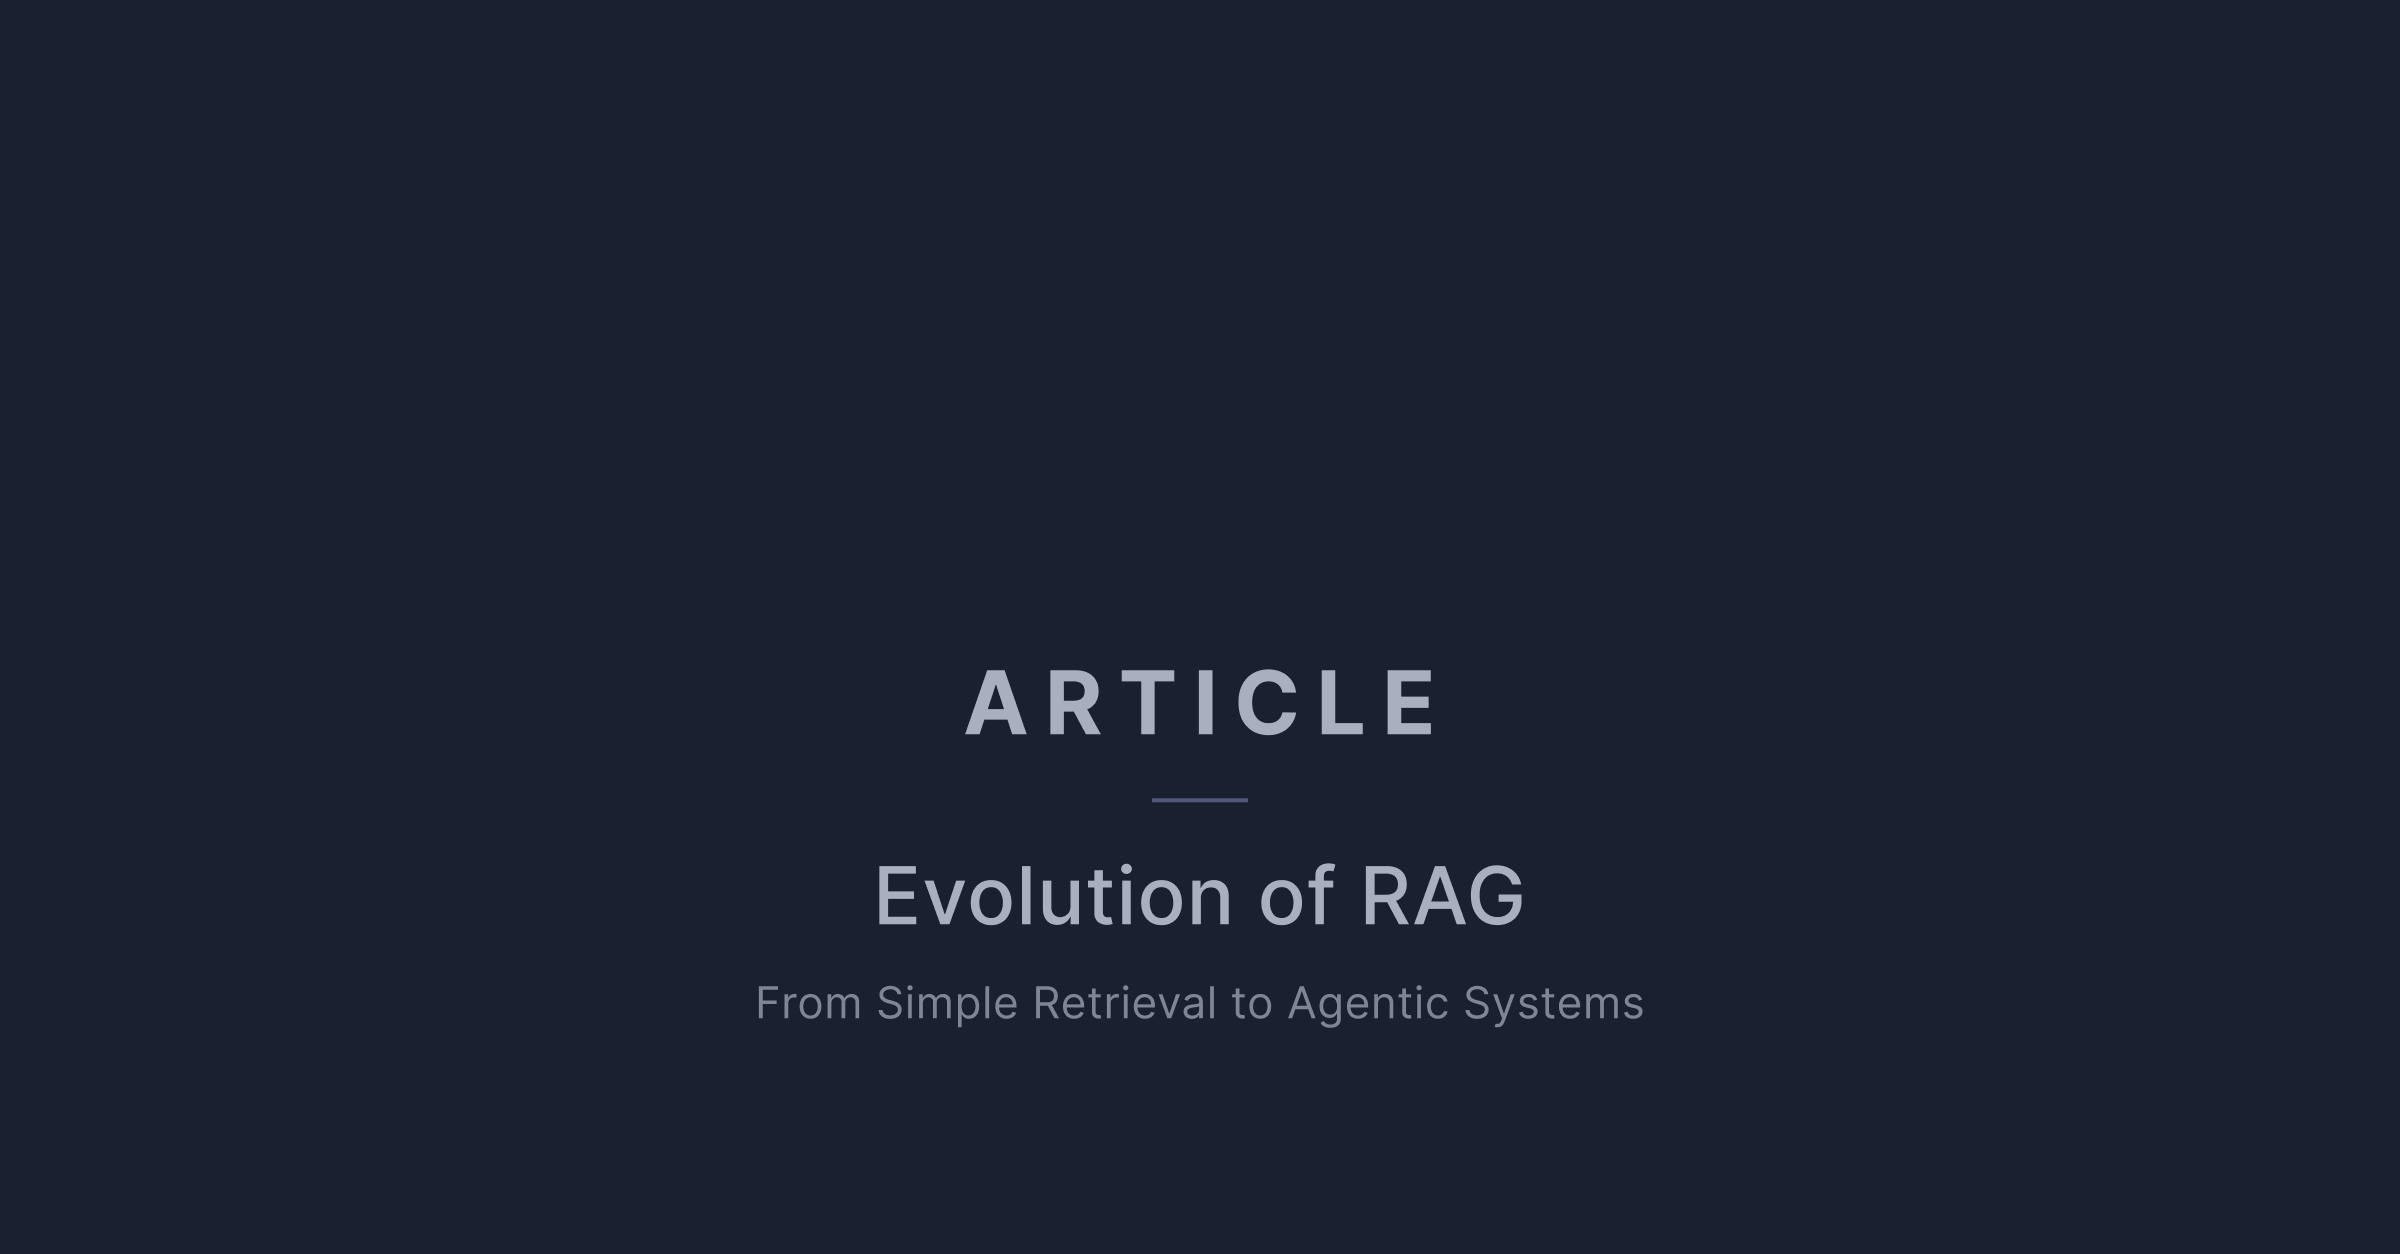
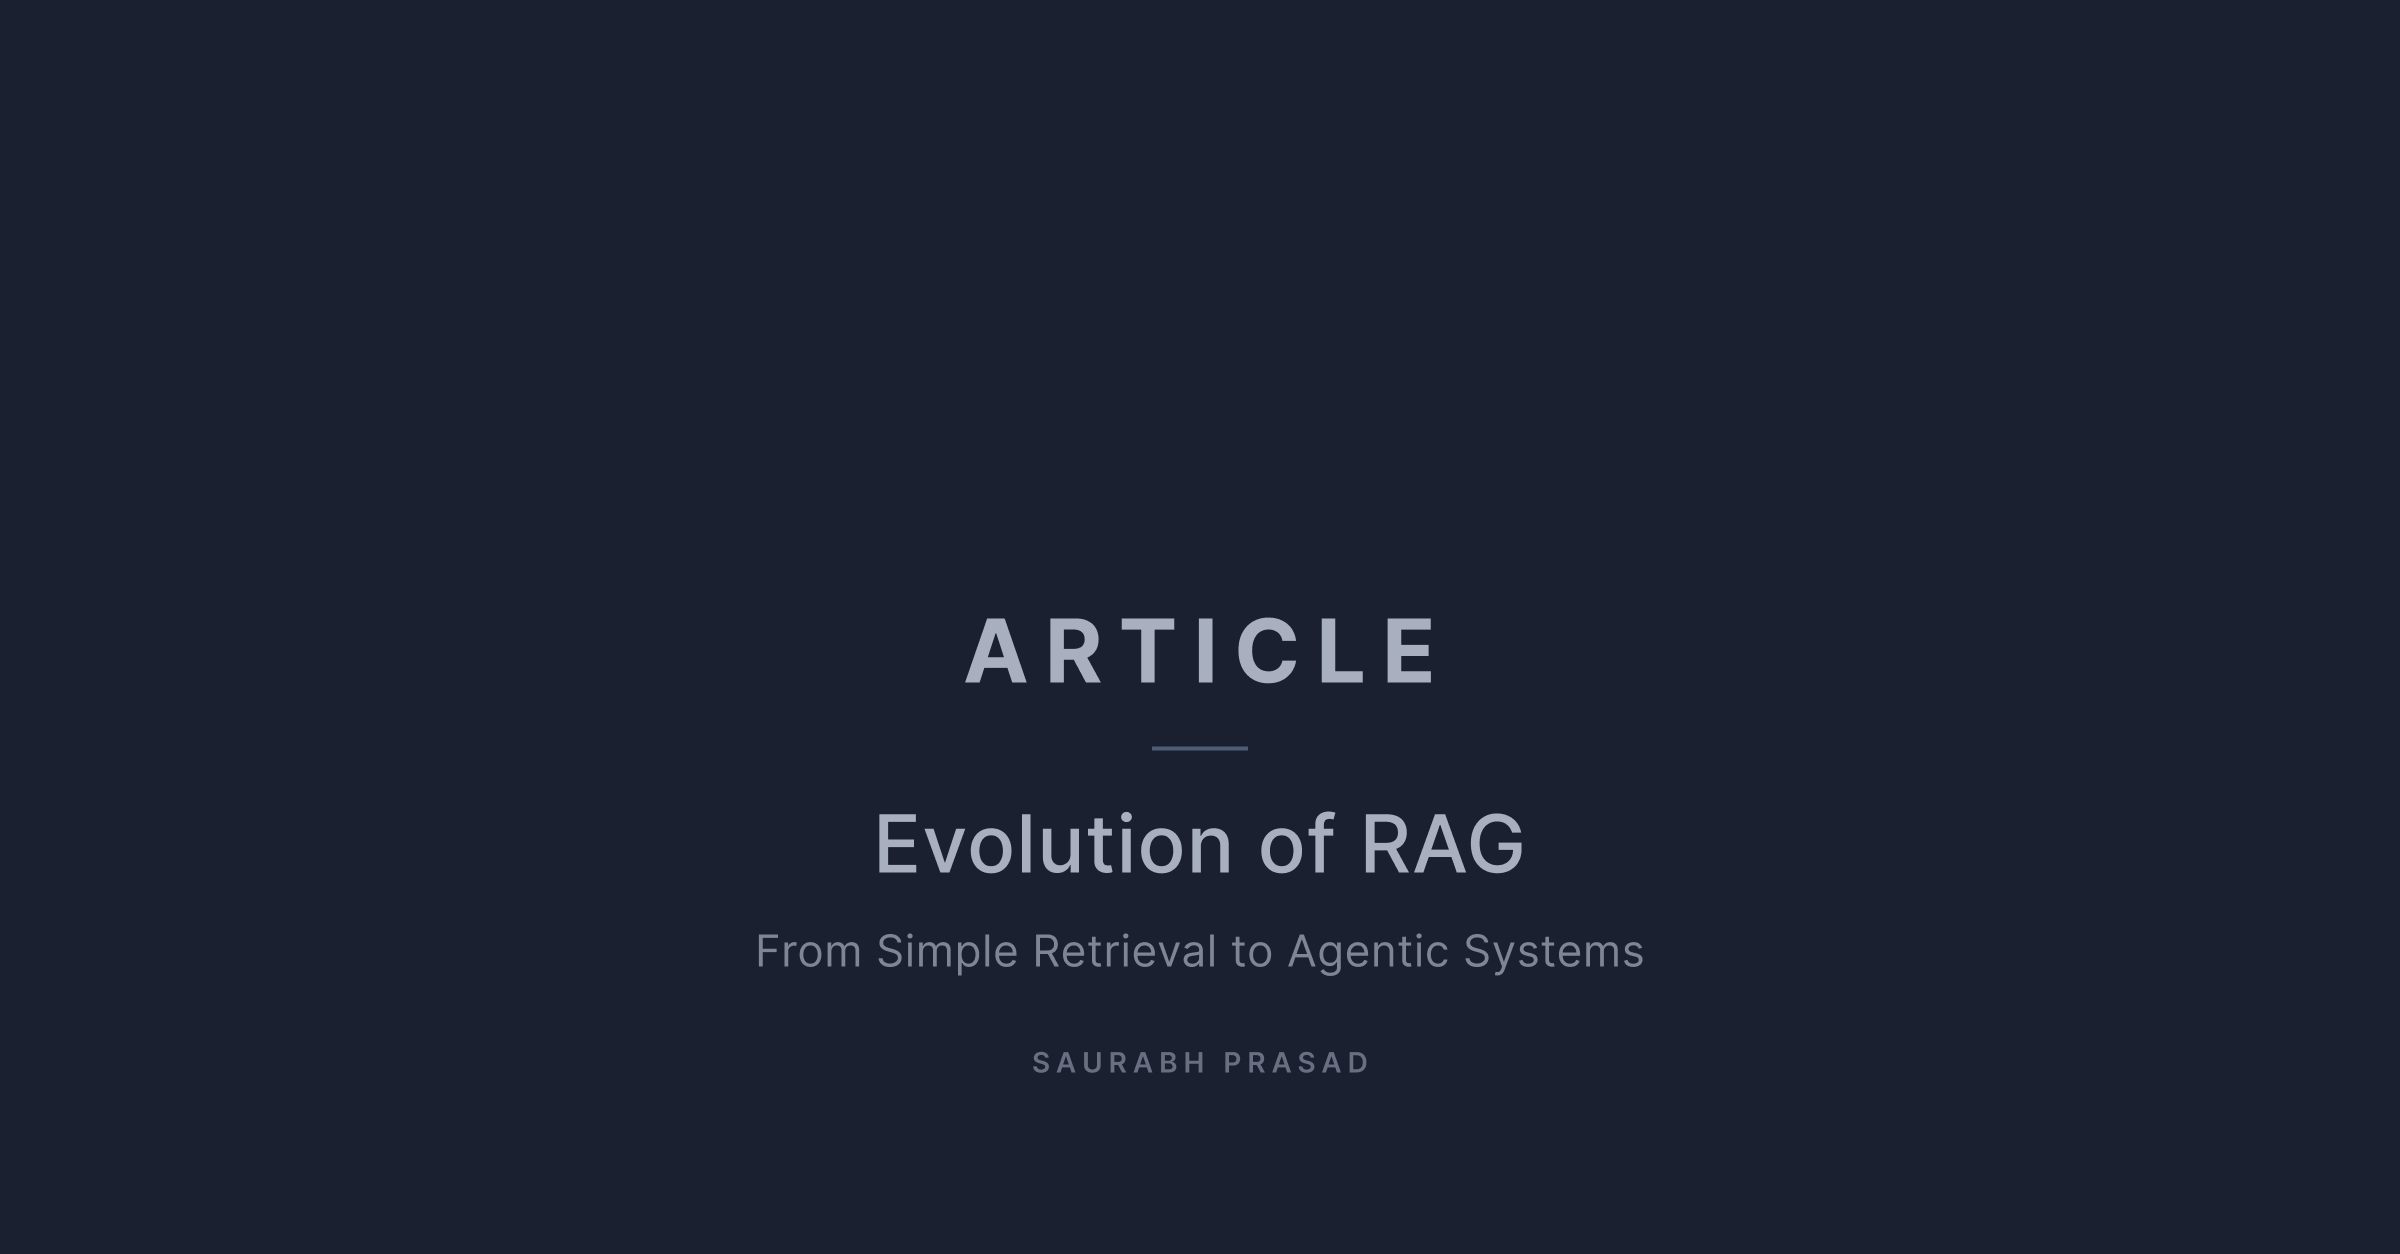
add OG preview cards for all three articles, add author line
- Dedicated OG cards for AgentOps, Title Platform, and RAG (refreshed)
- Each card now includes a small SAURABH PRASAD author line at the
  bottom so shared links attribute the author at a glance
- OG + Twitter meta tags wired into agentops.html and
  title-platform-ai-native.html (RAG already had tags from prior commit)

Changed region(s): [[0.3125, 0.6531, 0.6875, 0.8086], [0.4062, 0.4665, 0.5938, 0.5909], [0.4375, 0.8397, 0.5625, 0.8708]]

diff --git a/articles/agentops.html b/articles/agentops.html
@@ -4,6 +4,23 @@
     <meta charset="UTF-8">
     <meta name="viewport" content="width=device-width, initial-scale=1.0">
     <title>AgentOps: The Missing Discipline for Production AI Agents | Saurabh Prasad</title>
+    <meta name="description" content="Most teams can build an AI agent. Few can operate one. Three layers — observability, evaluation, and optimization — with the metrics that matter and what an operational control plane looks like in practice.">
+
+    <!-- Open Graph -->
+    <meta property="og:type" content="article">
+    <meta property="og:url" content="https://prsaurabh.github.io/articles/agentops.html">
+    <meta property="og:title" content="AgentOps: The Missing Discipline for Production AI Agents">
+    <meta property="og:description" content="Most teams can build an AI agent. Few can operate one. Three layers — observability, evaluation, and optimization — with the metrics that matter and what an operational control plane looks like in practice.">
+    <meta property="og:image" content="https://prsaurabh.github.io/assets/og-agentops-article.png">
+    <meta property="og:image:width" content="1200">
+    <meta property="og:image:height" content="627">
+
+    <!-- Twitter Card -->
+    <meta name="twitter:card" content="summary_large_image">
+    <meta name="twitter:title" content="AgentOps: The Missing Discipline for Production AI Agents">
+    <meta name="twitter:description" content="Most teams can build an AI agent. Few can operate one. Observability, evaluation, and optimization — with the metrics that matter.">
+    <meta name="twitter:image" content="https://prsaurabh.github.io/assets/og-agentops-article.png">
+
     <link rel="stylesheet" href="../css/style.css">
 </head>
 <body>

diff --git a/articles/title-platform-ai-native.html b/articles/title-platform-ai-native.html
@@ -4,6 +4,23 @@
     <meta charset="UTF-8">
     <meta name="viewport" content="width=device-width, initial-scale=1.0">
     <title>Building AI-Native Enterprise Applications | Saurabh Prasad</title>
+    <meta name="description" content="An end-to-end look at building an AI-native enterprise application from the ground up — architecture, protocol stack, skill registry, and modernization approach.">
+
+    <!-- Open Graph -->
+    <meta property="og:type" content="article">
+    <meta property="og:url" content="https://prsaurabh.github.io/articles/title-platform-ai-native.html">
+    <meta property="og:title" content="Building AI-Native Enterprise Applications">
+    <meta property="og:description" content="An end-to-end look at building an AI-native enterprise application from the ground up — architecture, protocol stack, skill registry, and modernization approach.">
+    <meta property="og:image" content="https://prsaurabh.github.io/assets/og-title-platform-article.png">
+    <meta property="og:image:width" content="1200">
+    <meta property="og:image:height" content="627">
+
+    <!-- Twitter Card -->
+    <meta name="twitter:card" content="summary_large_image">
+    <meta name="twitter:title" content="Building AI-Native Enterprise Applications">
+    <meta name="twitter:description" content="An end-to-end look at building an AI-native enterprise application from the ground up.">
+    <meta name="twitter:image" content="https://prsaurabh.github.io/assets/og-title-platform-article.png">
+
     <link rel="stylesheet" href="../css/style.css">
     <style>
         .draft-banner {
